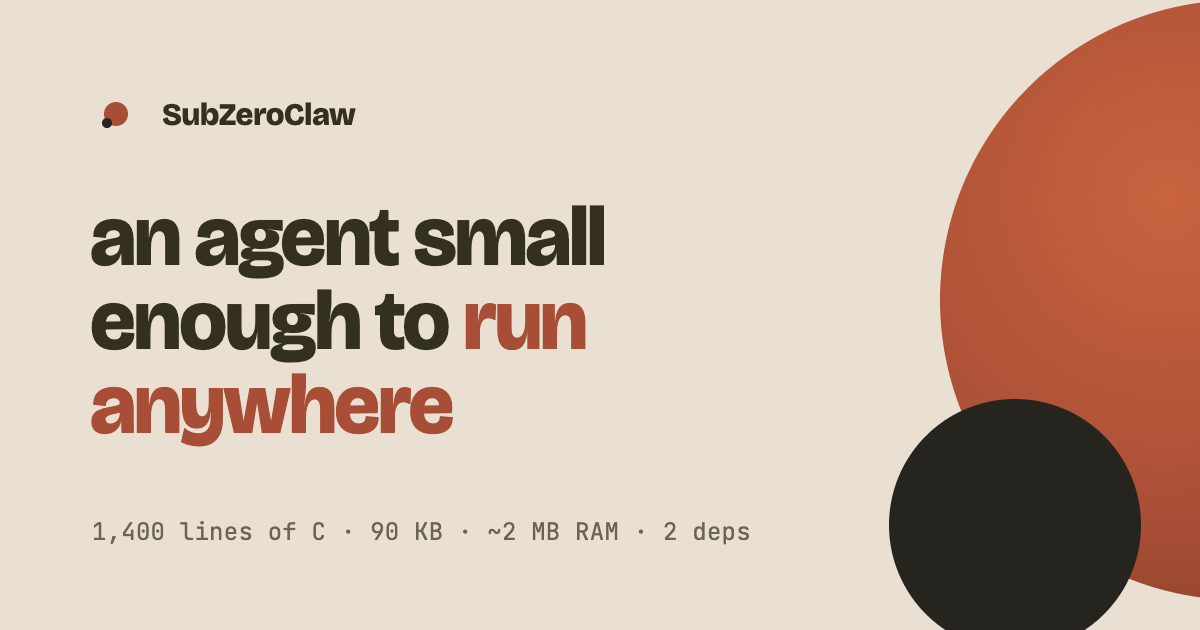
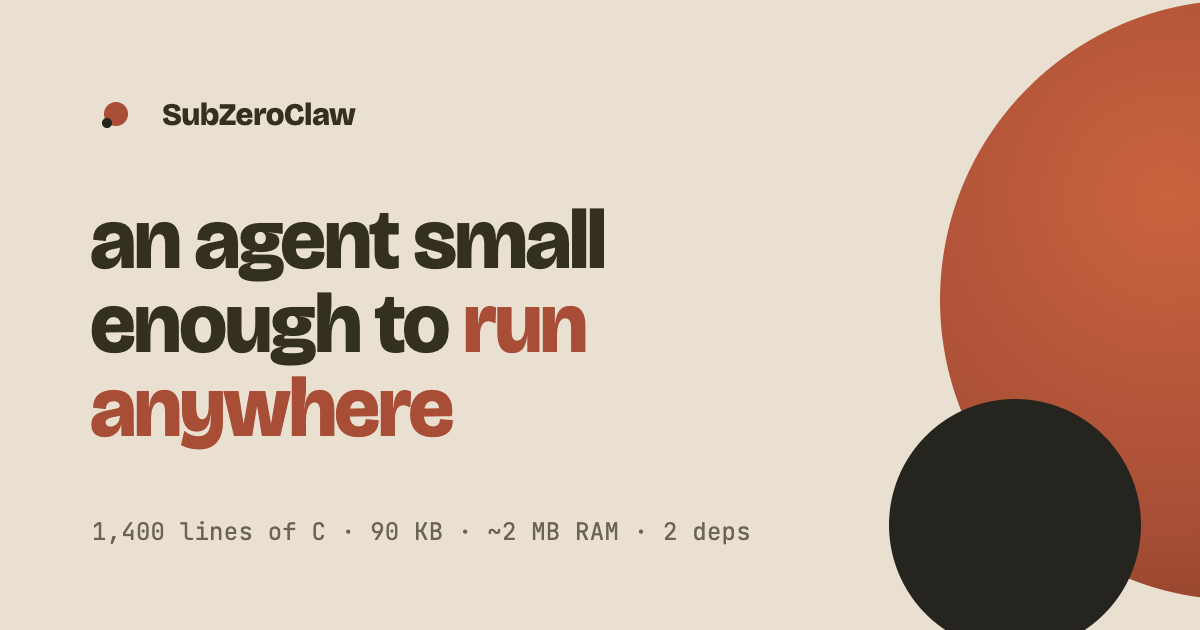
site i18n: generate share images in-repo and guard them against staleness
The per-language og-<lang>.png images were rendered by an out-of-tree
script, so an edited headline would have shipped with old share images.

- tools/og.cjs renders og.png and og-<lang>.png from each built page's
  headline and stats (same composition as before) and writes
  i18n/og.lock.json: per language, a hash of the headline+stats it drew
  and of the image itself.
- tools/i18n.py build records the same headline+stats hash per language;
  `check` (run before every Pages deploy and on PRs) now refuses when an
  image shows an old headline or was edited after rendering.

Tested: check fails with no og.lock, passes after rendering, fails when a
PNG is modified, passes once restored.

Changed region(s): [[0.0617, 0.4825, 0.4933, 0.7238], [0.0617, 0.3317, 0.4625, 0.4524], [0.4317, 0.5429, 0.4625, 0.573]]

diff --git a/tools/i18n.py b/tools/i18n.py
@@ -4,7 +4,8 @@
   python3 tools/i18n.py extract        # English page + JS strings -> i18n/en.json (the catalogue)
   python3 tools/i18n.py build          # i18n/<lang>.json -> site/<dir>/index.html, langbar.js, 404 strings,
                                        #   sitemap.xml, then i18n/build.lock.json (the fingerprint)
-  python3 tools/i18n.py check          # deploy guard: the fingerprint still matches the sources and outputs
+  node tools/og.cjs                    # share images og.png / og-<lang>.png from each built page's headline
+  python3 tools/i18n.py check          # deploy guard: fingerprint and share images still match the sources
   python3 tools/i18n.py verify <base>  # every version served right: 200s, slash redirects, lang/title/canonical
 
 English (site/index.html) is the single source. Every element with its own text becomes one catalogue
@@ -26,6 +27,7 @@ ROOT = Path(__file__).resolve().parent.parent
 SITE = ROOT / 'site'
 I18N = Path(os.environ.get('I18N_DIR', ROOT / 'i18n'))
 LOCK = I18N / 'build.lock.json'
+OG_LOCK = I18N / 'og.lock.json'  # written by tools/og.cjs
 ORIGIN = 'https://subzeroclaw.com/'
 # code, directory, og:locale, name
 LANGS = [('en', '', 'en_US', 'English'), ('es', 'es/', 'es_ES', 'Español'), ('ko', 'ko/', 'ko_KR', '한국어'),
@@ -310,7 +312,16 @@ def fingerprint():
     """Hashes of the English template, the catalogue, every translation and every generated file."""
     files = ['site/index.html', 'i18n/en.json'] + [f'i18n/{d.strip("/")}.json' for _, d, *_ in LANGS[1:]] \
         + [f'site/{d}index.html' for _, d, *_ in LANGS[1:]] + ['site/404.html', 'site/langbar.js', 'site/sitemap.xml']
-    return {f: sha(ROOT / f) for f in files}
+    return {'files': {f: sha(ROOT / f) for f in files},
+            'og_sources': {(d.strip('/') or 'en'): og_source(SITE / d / 'index.html') for _, d, *_ in LANGS}}
+
+
+def og_source(page):
+    """What a share image shows (headline + stats), hashed; tools/og.cjs computes the same from the same page."""
+    html = Path(page).read_text()
+    h1 = re.search(r'<h1>([\s\S]*?)</h1>', html).group(1)
+    stats = re.search(r'<p class="stats">([\s\S]*?)</p>', html).group(1)
+    return hashlib.sha256((h1 + '|' + stats).encode()).hexdigest()
 
 
 def check():
@@ -319,16 +330,25 @@ def check():
         sys.exit('No i18n/build.lock.json: run `tools/i18n.py build` before deploying.')
     want = json.loads(LOCK.read_text())
     bad = []
-    for f, h in want.items():
+    for f, h in want['files'].items():
         p = ROOT / f
         if not p.exists():
             bad.append(f'{f} is missing')
         elif sha(p) != h:
             bad.append(f'{f} changed since the last build')
+    # share images: rendered from the current headline and stats, and not edited since
+    og = json.loads(OG_LOCK.read_text()) if OG_LOCK.exists() else {}
+    for key, src in want['og_sources'].items():
+        png = SITE / ('og.png' if key == 'en' else f'og-{key}.png')
+        got = og.get(key, {})
+        if got.get('source') != src:
+            bad.append(f'{png.name} shows an old headline or stats: run `node tools/og.cjs`')
+        elif not png.exists() or sha(png) != got.get('png'):
+            bad.append(f'{png.name} changed since tools/og.cjs rendered it')
     if bad:
         sys.exit('Stale translations, not deploying:\n  ' + '\n  '.join(bad)
-                 + '\nEdit English, then: extract, translate the ids it reports, build, run the checks.')
-    print(f'i18n fingerprint ok ({len(want)} files)')
+                 + '\nEdit English, then: extract, translate the ids it reports, build, node tools/og.cjs, run the checks.')
+    print(f"i18n fingerprint ok ({len(want['files'])} files, {len(want['og_sources'])} share images)")
 
 
 def verify(base):
